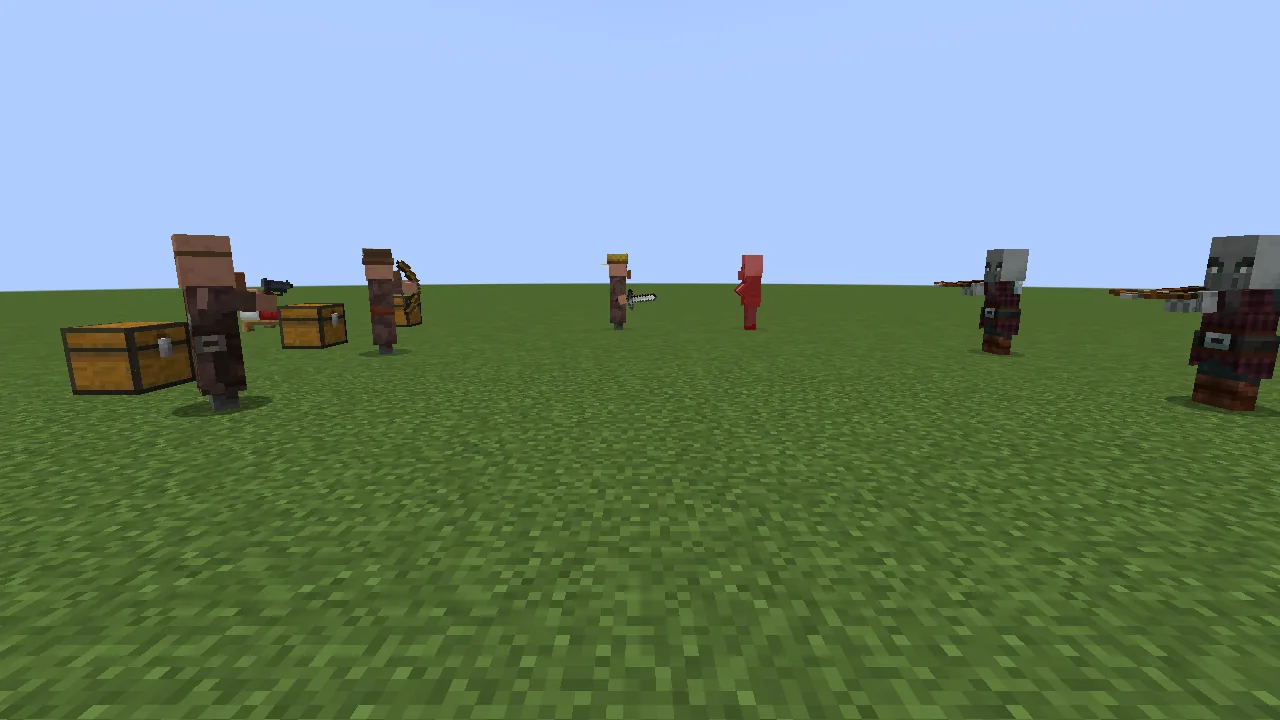
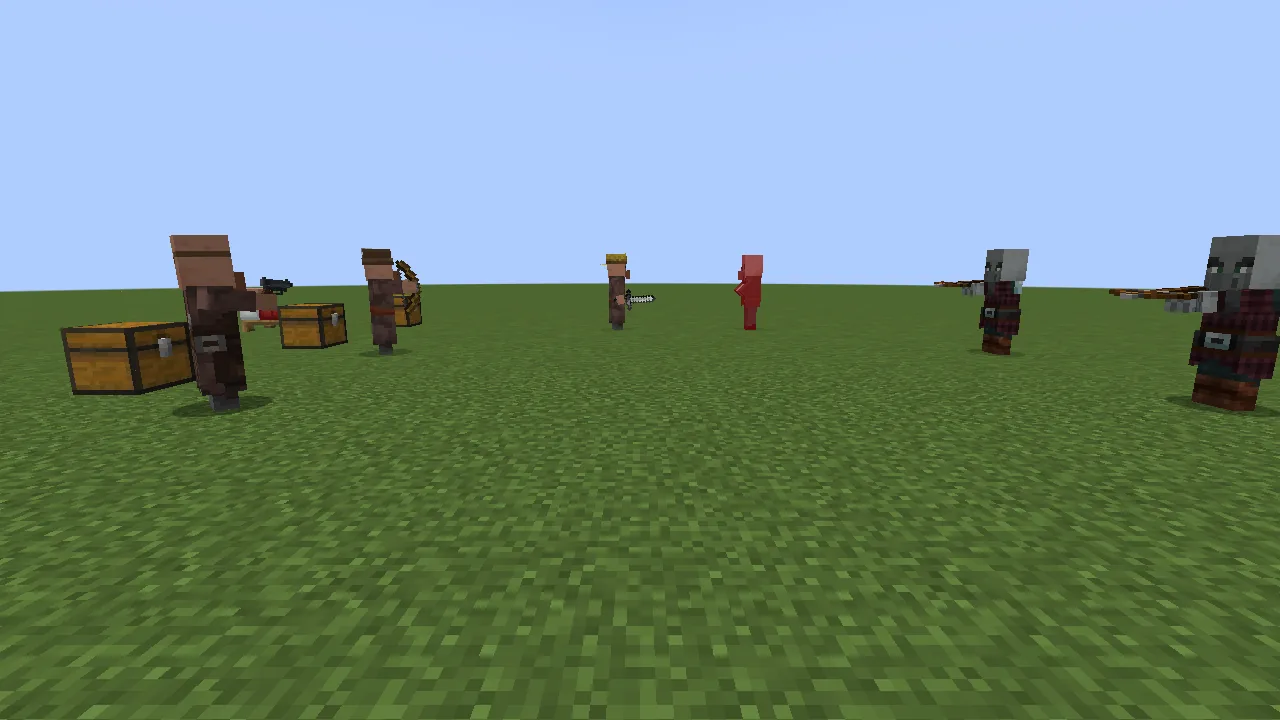
Serfdom 0.9.3: the manacles, the chain lead and the cuffs' chain in an iron ingot's greys (D-0011)
Rusty, on the manacles: "way too dark, it should be the same color as an iron ingot. Same with the
chain lead", and the chain across folded arms too. The manacles take a texture of ours in place of
the anvil's; the chain lead's item and the links strung to a captive are the ingot's two face greys,
where the links were near black; the chain across folded arms is vanilla's chain model with a texture
of ours, loaded as a model of its own and turned as the chain block lays it on its side. All three are
drawn by devtools/art/art.py. The wiki's images are retaken.

diff --git a/src/main/java/com/chunkworks/serfdom/client/CuffsLayer.java b/src/main/java/com/chunkworks/serfdom/client/CuffsLayer.java
@@ -3,27 +3,30 @@ package com.chunkworks.serfdom.client;
 
 import com.chunkworks.serfdom.Workers;
 import com.mojang.blaze3d.vertex.PoseStack;
+import com.mojang.math.Axis;
 import net.minecraft.client.Minecraft;
 import net.minecraft.client.model.VillagerModel;
 import net.minecraft.client.renderer.MultiBufferSource;
+import net.minecraft.client.renderer.Sheets;
 import net.minecraft.client.renderer.entity.RenderLayerParent;
 import net.minecraft.client.renderer.entity.layers.RenderLayer;
 import net.minecraft.client.renderer.texture.OverlayTexture;
-import net.minecraft.core.Direction;
+import net.minecraft.client.resources.model.ModelResourceLocation;
 import net.minecraft.world.entity.npc.Villager;
-import net.minecraft.world.level.block.Blocks;
-import net.minecraft.world.level.block.ChainBlock;
 
-/** The cuffs (D-0003): a villager in chains wears a short length of vanilla's chain across the front
- * of its crossed forearms, so anyone can see it is cuffed whether or not someone holds the chain.
- * The chain block's own model and texture, laid on its side; no art of ours. With its arms out of the
- * fold, gripping a tool (D-0011), each wrist wears a manacle instead: a band of the anvil's dark iron,
- * a little wider than the sleeve, where the sleeve meets the hand (a chain that small reads as a
- * line). */
+/** The cuffs (D-0003): a villager in chains wears a short length of chain across the front of its
+ * crossed forearms, so anyone can see it is cuffed whether or not someone holds the chain. Vanilla's
+ * chain model, laid on its side as the chain block's blockstate lays it, with a texture of ours in
+ * an iron ingot's greys ({@code models/block/cuff_chain.json}; D-0011). With its arms out of the
+ * fold, gripping a tool (D-0011), each wrist wears a manacle instead: a band in an iron ingot's
+ * greys, a little wider than the sleeve, where the sleeve meets the hand (a chain that small reads as
+ * a line). */
 public final class CuffsLayer extends RenderLayer<Villager, VillagerModel<Villager>> {
     public static final net.minecraft.client.model.geom.ModelLayerLocation MANACLES =
             new net.minecraft.client.model.geom.ModelLayerLocation(com.chunkworks.serfdom.Serfdom.id("manacles"), "main");
-    private static final net.minecraft.resources.ResourceLocation IRON = net.minecraft.resources.ResourceLocation.withDefaultNamespace("textures/block/anvil.png");
+    private static final net.minecraft.resources.ResourceLocation IRON = com.chunkworks.serfdom.Serfdom.id("textures/entity/manacles.png");
+    /** The chain across folded forearms, loaded by {@link ClientSetup} beside the game's models. */
+    public static final ModelResourceLocation CHAIN = ModelResourceLocation.standalone(com.chunkworks.serfdom.Serfdom.id("block/cuff_chain"));
     private final net.minecraft.client.model.geom.ModelPart manacles, right, left;
     /** The chain's length across the forearms, as a share of a block: eight of the model's pixels. */
     private static final float SCALE = 0.5F;
@@ -39,7 +42,7 @@ public final class CuffsLayer extends RenderLayer<Villager, VillagerModel<Villag
 
     /** effects: a band round each wrist of a villager's arms out of the fold ({@link ArmsLayer}'s arms,
      * which pivot at the shoulders): 4.8 by 1.6 by 4.8 over the arm's 4 by 4, across the sleeve's end.
-     * The texture is the anvil's 16 by 16 laid over 32 by 32 of the band's faces. */
+     * The texture is ours, 32 by 32 to match ({@code manacles} in {@code devtools/art/art.py}). */
     public static net.minecraft.client.model.geom.builders.LayerDefinition create() {
         var mesh = new net.minecraft.client.model.geom.builders.MeshDefinition();
         var root = mesh.getRoot();
@@ -67,9 +70,15 @@ public final class CuffsLayer extends RenderLayer<Villager, VillagerModel<Villag
         getParentModel().root().getChild("arms").translateAndRotate(pose);
         pose.translate(0.0F, Y / 16.0F, Z / 16.0F);
         pose.scale(SCALE, SCALE, SCALE);
+        // Along x, as the blockstate turns the chain for axis=x (x 90, y 90: BlockModelRotation's
+        // rotateYXZ(-y, -x, 0)), about the block's middle.
+        pose.mulPose(Axis.YP.rotationDegrees(-90.0F));
+        pose.mulPose(Axis.XP.rotationDegrees(-90.0F));
         pose.translate(-0.5F, -0.5F, -0.5F);
-        Minecraft.getInstance().getBlockRenderer().renderSingleBlock(Blocks.CHAIN.defaultBlockState().setValue(ChainBlock.AXIS, Direction.Axis.X),
-                pose, buffers, light, OverlayTexture.NO_OVERLAY);
+        var mc = Minecraft.getInstance();
+        mc.getBlockRenderer().getModelRenderer().renderModel(pose.last(), buffers.getBuffer(Sheets.cutoutBlockSheet()), null,
+                mc.getModelManager().getModel(CHAIN), 1.0F, 1.0F, 1.0F, light, OverlayTexture.NO_OVERLAY,
+                net.neoforged.neoforge.client.model.data.ModelData.EMPTY, null);
         pose.popPose();
     }
 }

diff --git a/devtools/art/art.py b/devtools/art/art.py
@@ -1,6 +1,6 @@
 # Copyright (C) 2026 Rusty Shackleford and nfx. SPDX-License-Identifier: AGPL-3.0-or-later
 """Serfdom's pixel art, drawn by hand in code: the Work Post's wood and board, the chain lead,
-the sheet of need icons, and the For Sale block's counter, cloth and sign (D-0006). Run from the repo root:
+the manacles and the chain across folded arms, the sheet of need icons, and the For Sale block's counter, cloth and sign (D-0006). Run from the repo root:
 
     uv run --no-project --with pillow python devtools/art/art.py
 
@@ -17,6 +17,9 @@ TEX = ROOT / "src/main/resources/assets/serfdom/textures"
 OAK = ["#4b3720", "#5e4527", "#73552f", "#8a6a3c", "#a07d48", "#b69257"]
 # Iron, dark to light.
 IRON = ["#2b2c30", "#46484e", "#6b6e75", "#9a9da4", "#c4c7cc", "#e6e8ea"]
+# An iron ingot's greys, dark to light: the chain lead and the manacles are the ingot's colour
+# (Rusty, 2026-10-06: the anvil's iron was "way too dark").
+INGOT = ["#353535", "#5e5e5e", "#727272", "#a8a8a8", "#d8d8d8", "#ffffff"]
 INK = "#2a211b"
 CREAM = "#efe4c4"
 # Emerald greens, dark to light, for the For Sale block's painted gem.
@@ -98,24 +101,61 @@ def board():
 
 
 def chain_lead():
-    """A loop of iron links with a hand loop, the lead's shape in iron: links alternate light and
-    dark so the chain reads at a glance."""
+    """A loop of iron links with a hand loop, the lead's shape in an iron ingot's greys: links
+    alternate light and dark so the chain reads at a glance."""
     img = canvas()
     # The links run along a loop: a list of link centres, each drawn as a 2x2 ring.
     path = [(3, 12), (4, 10), (5, 8), (6, 6), (8, 5), (10, 4), (12, 4), (13, 6), (12, 8), (10, 9), (8, 10), (7, 12), (6, 14)]
     for i, (cx, cy) in enumerate(path):
         light = i % 2 == 0
-        edge, body = (IRON[1], IRON[4]) if light else (IRON[0], IRON[2])
+        edge, body = (INGOT[2], INGOT[4]) if light else (INGOT[1], INGOT[3])
         for dx in (0, 1):
             for dy in (0, 1):
                 put(img, cx + dx, cy + dy, body)
         put(img, cx - 1, cy, edge); put(img, cx + 2, cy + 1, edge)
         put(img, cx, cy - 1, edge); put(img, cx + 1, cy + 2, edge)
         if light:
-            put(img, cx, cy, IRON[5])
+            put(img, cx, cy, INGOT[5])
     # The hand loop: a leather-brown ring at the end.
     for x, y in ((1, 13), (2, 14), (1, 14), (2, 12), (3, 15), (1, 15)):
         put(img, x, y, OAK[1])
+    return img
+
+
+def manacles():
+    """The manacles' band (D-0011), laid over CuffsLayer's 32 by 32 as a box 4.8 by 1.6 by 4.8: its top
+    and bottom faces (rows 0 to 4) the ingot's light grey, each side (rows 4.8 to 6.4) a white edge
+    above the grey and the ingot's darker grey at its foot, as an ingot's own faces are shaded."""
+    img = canvas(32, 32)
+    for x in range(20):
+        for y in range(4):
+            put(img, x, y, INGOT[4])
+        put(img, x, 4, INGOT[5])
+        put(img, x, 5, INGOT[4])
+        put(img, x, 6, INGOT[3])
+    return img
+
+
+def cuff_chain():
+    """The chain across a captive's folded forearms, in an iron ingot's greys (D-0011): the texture for
+    `models/block/cuff_chain.json`, which takes vanilla's chain model whole and draws its two crossed
+    planes from the strips at columns 0 to 2 and 3 to 5. Each strip is a column of three-wide links
+    seen face on, the one strip's links between the other's, so the chain alternates as it turns."""
+    img = canvas()
+
+    def ring(x0, rows):
+        top, bottom = rows[0], rows[-1]
+        for x in range(x0, x0 + 3):
+            put(img, x, top % 16, INGOT[4])
+            put(img, x, bottom % 16, INGOT[2])
+        put(img, x0 + 1, top % 16, INGOT[5])
+        for y in rows[1:-1]:
+            put(img, x0, y % 16, INGOT[3]); put(img, x0 + 2, y % 16, INGOT[3])
+
+    for first, last in ((1, 3), (6, 9), (12, 14)):
+        ring(0, list(range(first, last + 1)))
+    for first, last in ((3, 6), (9, 12), (14, 17)):
+        ring(3, list(range(first, last + 1)))
     return img
 
 
@@ -321,10 +361,13 @@ def main():
     (TEX / "block").mkdir(parents=True, exist_ok=True)
     (TEX / "item").mkdir(parents=True, exist_ok=True)
     (TEX / "gui").mkdir(parents=True, exist_ok=True)
+    (TEX / "entity").mkdir(parents=True, exist_ok=True)
     post_wood().save(TEX / "block/work_post.png")
     post_top().save(TEX / "block/work_post_top.png")
     board().save(TEX / "block/work_post_board.png")
     chain_lead().save(TEX / "item/chain_lead.png")
+    manacles().save(TEX / "entity/manacles.png")
+    cuff_chain().save(TEX / "block/cuff_chain.png")
     needs().save(TEX / "gui/needs.png")
     counter_planks().save(TEX / "block/for_sale_side.png")
     counter_front().save(TEX / "block/for_sale_front.png")

diff --git a/src/main/java/com/chunkworks/serfdom/client/ChainLook.java b/src/main/java/com/chunkworks/serfdom/client/ChainLook.java
@@ -2,11 +2,11 @@
 package com.chunkworks.serfdom.client;
 
 /** The chain lead's colours. Vanilla shades alternate leash segments by 0.7 and 1.0 of a brown
- * whose red is 0.5; the chain keeps the alternation, as dark and light iron links. Render thread
- * only. */
+ * whose red is 0.5; the chain keeps the alternation, as links in an iron ingot's two face greys
+ * (#a8a8a8 and #d8d8d8). Render thread only. */
 public final class ChainLook {
-    private static final float[] DARK = {0.30F, 0.31F, 0.34F};
-    private static final float[] LIGHT = {0.66F, 0.68F, 0.72F};
+    private static final float[] DARK = {0.659F, 0.659F, 0.659F};
+    private static final float[] LIGHT = {0.847F, 0.847F, 0.847F};
     private static boolean drawing;
     private ChainLook() {}
 

diff --git a/src/main/java/com/chunkworks/serfdom/client/ClientSetup.java b/src/main/java/com/chunkworks/serfdom/client/ClientSetup.java
@@ -42,6 +42,9 @@ public final class ClientSetup {
     @SubscribeEvent public static void renderers(EntityRenderersEvent.RegisterRenderers event) {
         event.registerBlockEntityRenderer(Serfdom.FOR_SALE_ENTITY.get(), ForSaleRenderer::new);
     }
+    @SubscribeEvent public static void models(net.neoforged.neoforge.client.event.ModelEvent.RegisterAdditional event) {
+        event.register(CuffsLayer.CHAIN);
+    }
     @SubscribeEvent public static void layerDefinitions(EntityRenderersEvent.RegisterLayerDefinitions event) {
         event.registerLayerDefinition(ArmsLayer.LAYER, ArmsLayer::create);
         event.registerLayerDefinition(CuffsLayer.MANACLES, CuffsLayer::create);

diff --git a/devtools/verification/release-0.9.3.md b/devtools/verification/release-0.9.3.md
@@ -7,12 +7,16 @@ does. It replaces 0.9.2, which was never released, and ships in its place.
 
 `./gradlew clean build` with the booth on Xephyr `:7` (the recipe's environment on the command line;
 the Gradle daemon was not stopped first, since another session was building beside it): `BUILD
-SUCCESSFUL` in 5 m 45 s. The jar `serfdom-0.9.3.jar` has sha1
+SUCCESSFUL` in 5 m 45 s. The jar `serfdom-0.9.3.jar` had sha1
 `f086a349abe7ff5a2eb90b5648cb70234be9cd82`, with Carried 1.0.0 nested. No payload changed: the network
 version stays "7".
 
 After the gate, `build.gradle` (a GameTest dependency) and the booth (a log line) changed, below; the jar
-rebuilt from the committed tree has the same sha1.
+rebuilt from that tree had the same sha1. That was commit e79ee35.
+
+**Then Rusty's colours** (below, "After the photographs"): the gate again, `BUILD SUCCESSFUL` in 5 m
+36 s, JUnit run (329, 0 failures), 120 GameTests, booth 135 checks with 67 photographs. **The jar
+`serfdom-0.9.3.jar` now has sha1 `92ca8cfdc40586ec7bb258c072b70b1fff589a2c`.**
 
 ## JUnit: 329 tests, 0 failures
 
@@ -92,6 +96,32 @@ registered"), which M5 does not touch: see the Backpacks+ jar below.
 - **The wiki's ledger image cut its last line:** the stall now lists four visits, and the crop stopped at
   three. It is the whole panel now.
 
+## After the photographs: an iron ingot's greys
+
+Rusty, on photo 65: the manacles' thickness is fine, the colour "way too dark, it should be the same
+color as an iron ingot. Same with the chain lead"; and, asked, the chain across folded arms too ("all
+ingot grey"). D-0011 has it. Changed, all client art:
+
+- **The manacles:** a texture of ours (`manacles` in `devtools/art/art.py`), the ingot's #d8d8d8 with a
+  white edge and a #a8a8a8 foot, in place of the anvil's (its greys average less than half the ingot's).
+- **The chain lead:** its item drawn in the ingot's greys; the links strung to the villager
+  (`ChainLook`) #d8d8d8 and #a8a8a8, where they were #a8adb8 and #4d4f57.
+- **The chain across folded arms:** vanilla's chain model whole (`models/block/cuff_chain.json` takes
+  `minecraft:block/chain` as its parent), with a texture of ours (`cuff_chain`): three-wide links in the
+  two strips the model draws, on the rhythm vanilla's links keep so the planes alternate. `CuffsLayer`
+  turns it as the chain block's blockstate does for axis x (BlockModelRotation's
+  `rotateYXZ(-90°, -90°, 0)`).
+
+Judged in the gate's photographs against the run before, at three times: photo 05 (the lead strung to
+a captive, light grey, its links still alternating close up), 13 (the lead in hand), 14 (the chain on
+folded arms, in the place and turn vanilla's had), 64 and 65 (the manacles, light bands at both
+wrists), and 65 again under Fresh Animations (`-PboothLook=fresh -PboothScene=arms`, 10 checks; the set
+in `run/booth/screenshots-fresh/` is retaken). Every photograph of the gate framed as the run before
+(no turned camera). The mutation pass was not rerun: nothing it mutates changed.
+
+At a distance the lead's two greys read as one light line more than as links; the darker link could
+go to the ingot's shadow grey (#727272) if the chain should show more.
+
 ## Not seen
 
-Rusty has not seen photos 60 to 67, in either look.
+Rusty has not seen photos 60 to 67, in either look, nor the greys in play.

diff --git a/README.md b/README.md
@@ -737,8 +737,11 @@ The market's data (D-0006):
   - Vanilla advances a swing only for monsters and players; `VillagerMixin` advances a villager's
     every tick, so every `swing` in the code plays. Woodcutting swings every `Job.SWING` ticks of a
     chop and as a log falls or a sapling goes in; farming at each harvest and each sowing.
-  - In chains with its arms out, a band of the anvil's dark iron goes round each wrist
-    (`CuffsLayer`).
+  - In chains with its arms out, a band in an iron ingot's greys goes round each wrist
+    (`CuffsLayer`, texture from `devtools/art/art.py`). The chain lead's links, in the hand and
+    strung to the villager (`ChainLook`), are the ingot's greys too, and so is the chain across a
+    captive's folded arms: vanilla's chain model with a texture of ours
+    (`models/block/cuff_chain.json`, loaded beside the game's models).
 
 Village Deed, Farmer's Delight, Ranged Weapons Mod, Thief, Village Law 1.1+ and Vanilla Wheels
 1.11+ are optional: without them there are no bought villages (and no stalls barred from one); no tomatoes, rice, pot, stove or

diff --git a/knowledge/decisions/D-0011.md b/knowledge/decisions/D-0011.md
@@ -54,6 +54,16 @@ Rusty: "B".
   frame, so they lean and bob with it; Fresh Animations' folded arms hide like vanilla's. Checked in the
   booth with the pack's jars and resource pack (`-PboothLook=fresh`).
 
+## After the photographs
+
+Rusty, 2026-10-06, on the manacles in photo 65: "thickness is fine but its way too dark, it should be
+the same color as an iron ingot. Same with the chain lead I think." The band's texture is ours now
+(`manacles` in `devtools/art/art.py`), in the iron ingot's greys (#d8d8d8 faces, a #ffffff edge, a
+#a8a8a8 foot) instead of the anvil's; the chain lead's item and the links strung to the villager are
+the ingot's greys too (links #d8d8d8 and #a8a8a8 alternating, where they were #a8adb8 and #4d4f57).
+Asked whether the chain across a captive's folded arms (vanilla's chain block, as dark) should follow:
+"all ingot grey". It is vanilla's chain model with a texture of ours (`cuff_chain`).
+
 ## Not done
 
 - The armour's stand-in body is still unturned (D-0004), so under Fresh Animations a chestplate does

diff --git a/knowledge/PROJECT.md b/knowledge/PROJECT.md
@@ -1,8 +1,9 @@
 # Serfdom
 
 **0.9.3 (a villager grips its tool, arms out of the fold, D-0011): built and gated on 2026-10-06 (329
-JUnit, 120 GameTests, booth 135 checks with 67 photos, 5 of 5 mutations; jar sha1 `f086a349`). Not
-released; Rusty holds the release until his batch is done.** Rusty: "they look weird holding tools,
+JUnit, 120 GameTests, booth 135 checks with 67 photos, 5 of 5 mutations), then the manacles, the chain
+lead and the chain on folded arms put in an iron ingot's greys on Rusty's word and gated again (jar sha1
+`92ca8cfd`). Not released; Rusty holds the release until his batch is done.** Rusty: "they look weird holding tools,
 as if they're holding the sprite and not the tool itself" (vanilla draws a villager's item as a
 dropped one on the folded arms); of two options he picked B, the arms out as an illager's. Found on
 the way: vanilla never plays a villager's swing (only monsters' and players'), so every swing Serfdom
